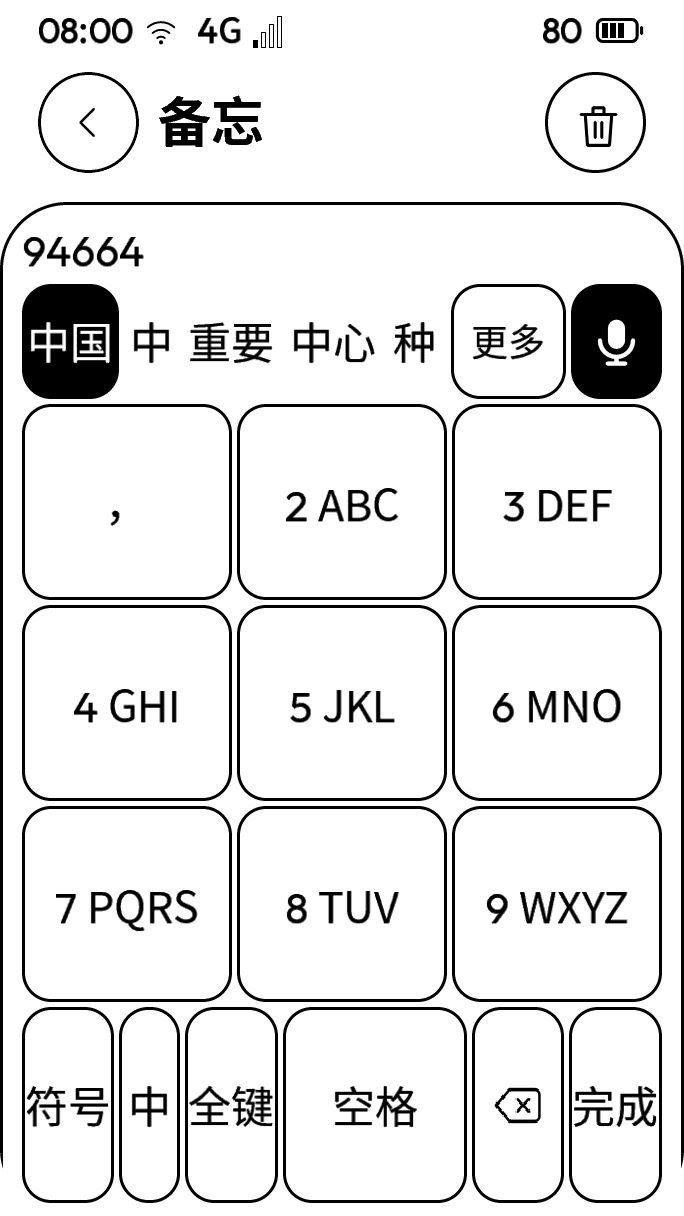
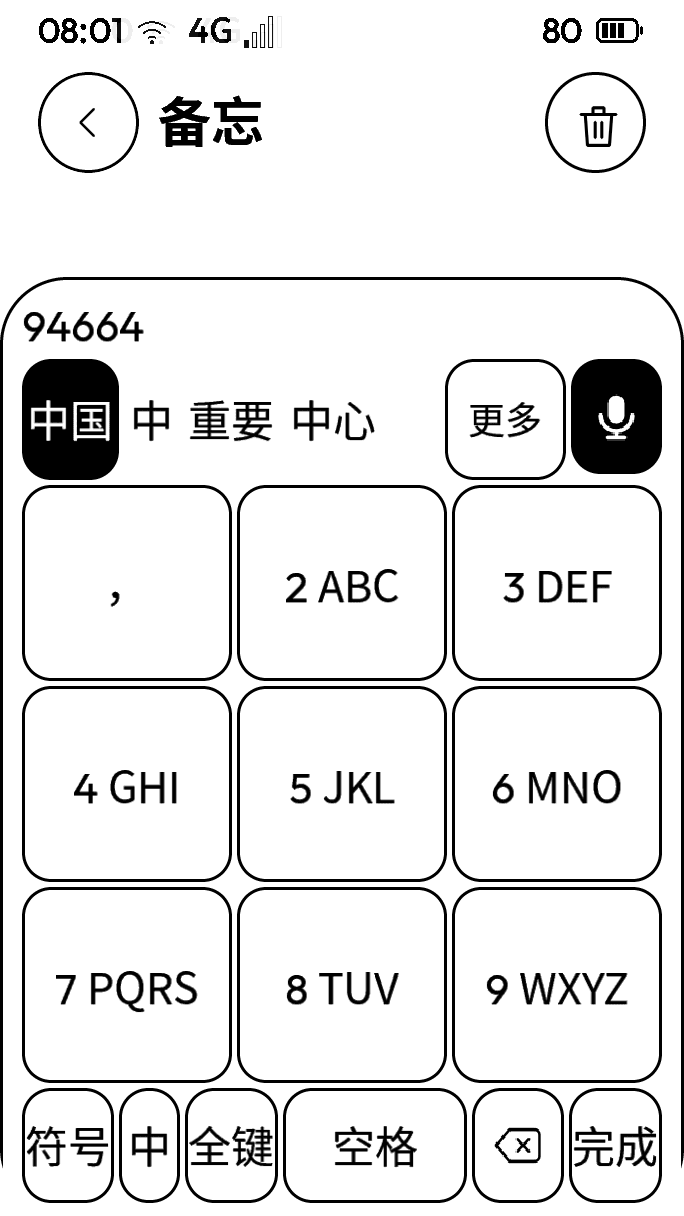
Record final keyboard evidence and remaining acceptance failures

diff --git a/docs/tasks/ime-reuse-1/REPORT.md b/docs/tasks/ime-reuse-1/REPORT.md
@@ -1,77 +1,92 @@
 # ime-reuse-1 执行报告
 
-基线：`fa68b45098b745152ea8fb9a30c7a8727d659305`。分支：`claude/codex-ime-reuse-1`。
+基线 `fa68b45098b745152ea8fb9a30c7a8727d659305`；分支 `claude/codex-ime-reuse-1`；最终产品代码提交 `85b61173`。**实现已提交，验收 2 未全通过。**
+
+以下命令均使用任务书的依赖配置，构建／测试前加 `taskpolicy -c utility`；构建最多 `-j2`，ctest 最多 `-j2`。`$PY` 指 `$INK_DEPS/build-deps/pyenv/bin/python`，`$CTEST` 指同目录的 `ctest`。
 
 ## 验收表
 
 | 编号 | 结论 | 证据 | 命令 |
 | --- | --- | --- | --- |
-| 1 控件、键表、九宫格与隔离 | 【实测】专项与反向对照通过 | 专项、成员重启及 18 张帧图通过；移除九键匹配后失败 3 条，另外三项既有反向对照仍失败 | `INK_KEEP_EVIDENCE=1 taskpolicy -c utility "$INK_DEPS/build-deps/pyenv/bin/python" tests/ime_keyboard1.py --build build` |
-| 2 全量、字号、S31 | 执行中 | 普通构建成功；全量 ctest 运行中；字号静态检查无违规 | `taskpolicy -c utility cmake --build build -j2` |
-| 3 前后截图与性能 | 【实测】已采集 | 24 张 PNG，单张最大 29708 字节；性能见下表 | `tests/ime_keyboard1.py --build build`；[截图清单](screenshots.json) |
+| 1a 六种键表、尺寸与单一输入路径 | 【实测】通过；跨行取整差异见下 | 最终版 2178 条检查、18 帧；native matrix，无 textarea 和默认写入回调 | `$PY tests/ime_keyboard1.py --build build` |
+| 1b 九键词组、剩余数字 | 【实测】通过 | `94664` 有“中国”；`946644862` 选“中国”剩 `2` | 同上 |
+| 1c 全拼、密码与 AI 隔离 | 【实测】通过 | ime-lexicon、ime-learning、integration-text 三种词库情形及键盘密码检查通过，未放宽原断言 | `$CTEST --test-dir build --output-on-failure -j2 -R '^ime-|^integration-text-'` |
+| 1d 按成员记布局、学词 | 【实测】通过 | 成员互不串用；重启 10 条检查通过 | `$PY tests/ime_keyboard1.py --build build` |
+| 1e 九键反向对照 | 【实测】通过 | 撤掉匹配后退出 1、失败 3 条；原有三个反向对照仍按预期失败 | `$PY tests/ime_keyboard1.py --build build --reverse` |
+| 2a 主工程普通全量 | 【实测】未通过 | 原话：`99% tests passed, 5 tests failed out of 391`；383 通过、5 失败、3 跳过 | `cmake --build build -j2`；`$CTEST --test-dir build --output-on-failure -j2` |
+| 2b 字号检查 | 【实测】通过 | 全量中的 ui-scale 通过；最终键盘静态检查 0 违规 | `$PY tools/ui_scale_check.py system/ui/shell/keyboard.c` |
+| 2c S31 宿主机 | 【实测】通过 | `100% tests passed out of 51` | `cmake -S ports/esp32s31/tests -B build-s31-host`，构建／ctest `-j2` |
+| 2d S31 固件 | 【实测】通过 | 最终代码编译退出 0，C/C++ 编译告警 0；未连接设备 | `INK_UPSTREAM="$INK_DEPS/../ink-hw/upstream/Metalio-E-INK4-Plus" bash ports/esp32s31/build.sh` |
+| 2e GCC 与内存检查 | 【实测】GCC 通过；ASan 功能测试未全过 | `gcccheck: 12 compiled, 0 with findings`；ASan/UBSan 7/8 通过，听写失败，未出现内存诊断 | `$PY "$INK_DEPS/../ink-codex/tools/gcccheck.py" build <本任务 12 个 C 文件>`；ASan 命令见下 |
+| 3 截图、性能和上机清单 | 【实测】宿主机材料齐全；真机待复核 | 24 张 PNG，单张最大 29708 字节；查询结果见下 | 同 1a；[截图校验清单](screenshots.json)、[验证数据](validation.json) |
 
 ## 没做到的
 
-普通全量未通过：`99% tests passed, 5 tests failed out of 391`，383 通过、5 失败、3 跳过。4 项是下述翻译／目录同步；`integration-dictation` 的 AI 隐藏输入场景有 3 条失败（等待进入监听、人可听写、回到键盘），独立新输出目录也复现。依三次止损规则保留失败，不改听写引擎。内存检查见最终记录。
+- **全量未全绿**：`i18n-shell-remaining`、`i18n-extras`、`i18n-literals` 需要补三项英文翻译和源码标记；`capability-table-doc` 需要同步新增设置。这些文件不在允许修改范围／被禁止修改，交主会话统一更新。
+- **听写回归未修复**：`integration-dictation` 在 AI 隐藏输入框中，点击麦克风后没有进入监听，随后“人可听写／回到键盘”共 3 条断言失败。普通全量、ASan 及独立干净输出目录均复现；按三次止损规则保留失败，不再扩改。不能把它写成通过。
+- `hub-contract`、`hub-json-crosscheck`、`hub-simulator-e2e` 跳过：缺锁定的 Hub Python 环境，且相应生成消息缺失；未自行安装依赖。
+- 没有实机打字或实机时延数据。本次没有烧录、串口操作、花钱或向远端写入。
 
 ## 和设计不一致的
 
-【实现】LVGL 按各行剩余宽度分配像素：同一行等宽键最多差 1 px，跨行字母最多差 2 px；C12 的同一基本宽度有这个取整差异。数字区和九键均采用三行 163 高的数字区，另一个同事件桥的 LVGL 键盘承载普通高度的功能键（数字两行、九键一行）；其余字体、边框和间距相同。
+【实现／实测】LVGL 按每行剩余宽度分配像素：同一行等宽键相差至多 1 px，跨行字母相差至多 2 px；与 C12 的严格同一基本键宽存在这个差异。没有修改规范迁就实现。
+
+候选条基准高 101，普通功能键 96，数字区 163；高度随系统文字行高变化，十列的横向宽度受屏宽约束。数字／九键的功能底行另用同一个事件桥的 LVGL 键盘承载（两行／一行），仍只走 `keyboard.key`。语音键在候选条最右侧，宽 91、高同普通功能键；图标基准 43。沿用既有入口位置，给候选保留中间空间。
 
 ## 改过的已有测试
 
-键盘点击定位由子按钮／label 改为 native matrix 的命中框，原功能断言不变：`integration/textinput.c`、`integration/dictation.c`、`weather/weather.c`、`ui_input_host.c`、`ui_shell_scenes.c`、`ui_shell_regressions.c`、`semantics_shell2/keyboard.c`。英文界面采集器两份增加读取 matrix 的可见键名。`ime_keyboard1` 保留原功能检查，补充几何、九键、学习、隔离与重启；截图数从 6 增至 18，场景结束由 35 秒增至 150 秒以容纳新增截图；未加 sleep。图标断言改成检查 matrix 的主题图标绘制及保留的可访问键名。`ui_input_host` 的坐标诊断显式转成 int，适配 GCC 的 int32_t 类型；未改条件。
+- 按键定位由子按钮／label 改为 matrix 命中框：`integration/textinput.c`、`integration/dictation.c`、`weather/weather.c`、`ui_input_host.c`、`ui_shell_scenes.c`、`ui_shell_regressions.c`、`semantics_shell2/keyboard.c`。两份英文界面采集器增加读取可见 matrix 键名。功能、隔离和状态断言不变。
+- `ime_keyboard1` 增加几何、九键、成员学习及重启检查；图标检查适配 matrix 绘制与可访问键名。截图期望从 6 增至 18，场景从 35 秒延长至 150 秒以容纳新增截图；未加 sleep。
+- 原反向对照的替换锚点适配新条件，原失败期望不变；另加撤掉九键匹配的反向对照。`ui_input_host` 的坐标诊断显式转 int，消除 GCC 的 int32_t 格式告警，断言条件不变。
 
 ## 要用户定的
 
-暂无。只实施任务书已授权的可逆改动。
+没有新增产品决策。待主会话处理上述同步项与听写失败后再验收。
 
 ## 顺手发现
 
-【实测】听写日志显示存在 UI／点按时序的排查方向；尚未证明根因，不能归因给语音服务。复查时应同时记录点击前顶层页面、命中的控件和能力回执。没有为它加 sleep 或后台重试。
+听写失败的触控命中和顶层界面尚未被同一记录证明，不能归因给某个服务。下一步应同时记录点击前的顶层页面、实际命中控件与能力回执。未用 sleep、放宽断言或删除测试绕过。
 
 ## 新增的机制
 
-新增设置 `text.nine_key`（成员级布尔值）：任务第 4 条要求；沿用现有设置文件。其余没有新增任务、状态机、文件格式、缓存或索引。
+- 成员设置 `text.nine_key`：任务第 4 条要求，沿用现有设置文件。
+- 无新增任务、状态机、文件格式、缓存、索引或后台重试；不启用 lv_ime_pinyin。
 
 ## 要改的文档
 
-`docs/system/capabilities.md`：新增成员设置 `text.nine_key` 后需要由主会话运行 `python3 tools/capabilities.py` 生成；本任务按总规则不修改共享目录。
+- 主会话运行 `python3 tools/capabilities.py` 更新共享的 `docs/system/capabilities.md`，纳入 `text.nine_key` 和键 4 的说明。本任务未改该文件。
+- `assets/i18n/en.tsv` 补“九宫格拼音”“全键”“九键”三项，再将源码相应位置标为 TR_NOOP/TR。英文键帽宜用 26／9 等短标签，避免大字号溢出。本任务未改允许范围外的翻译表。
 
-`assets/i18n/en.tsv` 及对应标记：需补“九宫格拼音”“全键”“九键”三项，并把源码这三处标为 TR_NOOP/TR。英文键帽宜用短标签（例如 26 / 9）以保持大字号尺寸。任务允许列表未包含翻译表，所以保留可用的中文原名并报告失败，未放宽 i18n 检查。
+## 规模、来源与验证边界
 
-## 上机核对清单
+【实测】按产品文件 git numstat 统计：**+234 / -109，净增 125 行**，低于 350 上限；拷来的 18 行头文件、测试和文档不计。手工键帽／排键删除 73 行，keyboard.c 总删除 107 行。超过 100 行是因为六种键表、现有候选／语音／密码语义、只读九键查询和成员设置都要接通。更小方案已核查：只开 lv_ime_pinyin 会丢词组和学习；保留手排键帽不满足替换要求，均未采用。
 
-由主会话验证真机打字、全拼与九宫格切换、按键到出字的时间；本任务不接触设备。
+【实现／实测】kiikoread 两个完整函数逐字比对通过；来源、固定提交、哈希和 Apache-2.0 许可证见 [SOURCE.md](../../../system/services/text/vendor/kiikoread/SOURCE.md)。仅按 IKD1 原键表只读查询，候选沿用 consumed／freq 和成员学习。`94664` 是 zhong，因此九键允许尚未输完的词组补全；全拼仍按原规则精确匹配。
 
-## 第一里程碑
+【实测】S31 的 compile_commands 确认与宿主机共用 `system/ui/lv_conf.h`、`LV_CONF_INCLUDE_SIMPLE`；库中导出 lv_keyboard_create，未导出 lv_ime_pinyin_create。显式宏分别为 1、0。
 
-【实现】按键区已换成 `lv_keyboard` 自定义键表，移除默认 textarea 回调；所有按键和选词仍经过 `keyboard.key` / `keyboard.pick`，没有增加能力或 AI 编辑通道。主题末尾增加键盘令牌块，键高随系统文字行高变化。语音键放候选条最右侧，保留已有听写入口的位置和可见候选空间，宽 91、高随普通功能键一起变化；与删除键的整数取整差异待最终量表核对。
+【实测】ASan 构建使用同一依赖配置，加 `-DINK_SANITIZE=ON`；最终跑 `ime-keyboard1`、`ime-lexicon`、`ime-learning`、`integration-text-main/nocard/baddict`、`audit9-ime-layout`、`integration-dictation` 共 8 项，最后一项失败，其余通过。使用 `ASAN_OPTIONS=detect_leaks=0`（本机不支持 LeakSanitizer）；没有 ASan/UBSan 内存错误。最终九键底行几何在全量后调整，并复跑最终源码的键盘专项、上述 ASan 和 S31 编译；全量结果不标为通过。
 
-【实现】拷贝 kiikoread `83942eb` 的两个完整函数，保留 Apache-2.0 声明和原许可证；无词库转换、缓存或新索引。九键只读遍历 IKD1 的原键表，以消耗长度、原词频排序，再沿用成员学习。`94664` 是 `zhong`；词组未输完时允许补全“中国”，`946644862` 选“中国”保留 `2`。
+GCC 命令检查的 12 个 C 文件为 `system/ui/shell/keyboard.c`、`system/services/text/pinyin.c`、`system/services/text/text_service.c` 与 `ime_keyboard1.c`、`integration/textinput.c`、`integration/dictation.c`、`ui_input_host.c`、`ui_shell_regressions.c`、`i18n_shell.c`、`i18n_shell_remaining.c`、`ui_shell_scenes.c`、`weather/weather.c`。最终 `git diff --check` 通过；按总规则第 6 节扫描提交差异，绝对路径和 MAC 匹配数为 0。无范围外文件或构建产物提交。
 
-【实测】宿主机每种查询 100 次，单位微秒（全拼与九键分别输入各自组合串的前 1～6 位；不代表真机性能）：
+## 查询耗时
 
-| 位数 | 全拼均值 | 全拼最大 | 九键均值 | 九键最大 |
+【实测】最终普通宿主机运行，每种查询 100 次，单位微秒。计时、统计和输出在 vtk_host_call 中，产品不读宿主时间。
+
+| 输入位数 | 全拼均值 | 全拼最大 | 九键均值 | 九键最大 |
 | --- | --- | --- | --- | --- |
-| 1 | 0.170 | 2.000 | 569.700 | 786.000 |
-| 2 | 0.210 | 1.000 | 333.940 | 664.000 |
-| 3 | 0.290 | 1.000 | 310.640 | 562.000 |
-| 4 | 0.380 | 1.000 | 284.770 | 541.000 |
-| 5 | 0.600 | 1.000 | 312.690 | 481.000 |
-| 6 | 0.850 | 2.000 | 341.710 | 425.000 |
+| 1 | 0.120 | 2.000 | 520.380 | 599.000 |
+| 2 | 0.220 | 1.000 | 317.070 | 378.000 |
+| 3 | 0.350 | 1.000 | 242.970 | 285.000 |
+| 4 | 0.400 | 1.000 | 245.650 | 296.000 |
+| 5 | 0.530 | 1.000 | 246.840 | 286.000 |
+| 6 | 0.660 | 1.000 | 253.930 | 302.000 |
 
-【实现】既有全链路输入测试要求按键到可见小于 800 ms；没有独立的全拼查询耗时上限。九键扫描比二分全拼慢，宿主机本次最大值不足 1 ms；不能用它保证 S31 的时延。
+查询九键前 1～6 位 946644，对照全拼前 1～6 位 zhongg。全拼既有小于 800 ms 的测试是按键到显示的整链路预算，并无独立 CPU 查询上限。九键扫描明显慢于二分全拼；宿主机数据不能保证 S31 映射闪存上的性能，上机仍需测量。没有自行添加缓存、索引文件或词库格式。
 
-## 第二里程碑
+## 截图
 
-【实测】S31 宿主机：`100% tests passed out of 51`。命令：`taskpolicy -c utility cmake -S ports/esp32s31/tests -B build-s31-host`，构建 `-j2`，ctest `-j2`。GCC：`gcccheck: 12 compiled, 0 with findings`（本任务改过的 3 个产品 C 文件及 9 个测试 C 文件）。四项反向对照均退出 1，且命中对应失败断言，见 [validation.json](validation.json)。
-
-【实测】胶水累计 +234 / -109，净增 **125 行**，不含拷入的 18 行上游头文件、测试和文档；上限 350。删除手工键帽／排键 73 行；keyboard.c 总删除 107 行。超过 100 行的原因：需同时桥接六种键表、维持候选／语音／密码语义，并提供只读九键查询与成员设置。更小的两种方案已核查：直接开 lv_ime_pinyin 会丢 IKD1 词组和学习；保留手排按键不符合本任务。没有采用两者。
-
-### 截图
-
-基线键盘来自 `fa68b450`，所有图均由无窗口模拟器采集，未经设计稿替换。常规为字号 1（100%），大字号为字号 3（120%）。基线没有九键，“九键前”展示当时实际的全键盘，不代表已有九键。
+【实测】无窗口模拟器采集，常规字号 1（100%），大字号 3（120%）；PNG 仅无损压缩。前图用基线键盘，保留当时英文界面；后图用中文界面。基线没有九键，“九键前”展示原全键盘，不能当作已有九键。宿主输入框规格不在本任务。
 
 | 键表 | 常规前 | 常规后 | 大字号前 | 大字号后 |
 | --- | --- | --- | --- | --- |
@@ -81,3 +96,7 @@
 | 数字 | [before/normal](before-number-normal.png) | [after/normal](after-number-normal.png) | [before/large](before-number-large.png) | [after/large](after-number-large.png) |
 | 九键 | [before/normal](before-nine-normal.png) | [after/normal](after-nine-normal.png) | [before/large](before-nine-large.png) | [after/large](after-nine-large.png) |
 | 密码 | [before/normal](before-password-normal.png) | [after/normal](after-password-normal.png) | [before/large](before-password-large.png) | [after/large](after-password-large.png) |
+
+## 上机核对清单
+
+由主会话执行：普通／大字号分别输入全拼和九键，核对切换及成员重启记忆；用 94664 选“中国”，用 946644862 选词后确认剩 2；核对密码不出候选且 AI 不见正文；检查符号两页、数字键和语音键命中范围。测按键到候选／正文可见的时间，尤其是闪存词库的 1～6 位九键查询，并复查 AI 隐藏输入框的听写失败。没有将宿主机截图或耗时当成实机结论。
